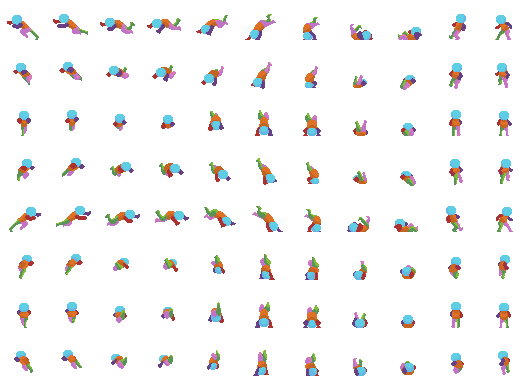
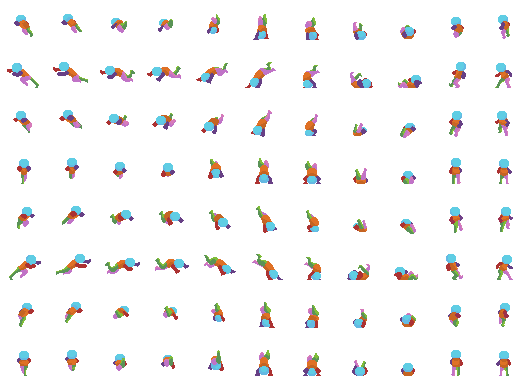
Actual dodging in response to input

diff --git a/crates/game/runtime/src/characters/dodge.rs b/crates/game/runtime/src/characters/dodge.rs
@@ -1,8 +1,13 @@
+use crate::characters::state::TrySetStateEvent;
+use assets::action_states::Dodging;
 use bevy::prelude::*;
 use common::Facing;
+use std::time::Duration;
+use physics::{ApplyImpulse, Impulse};
 
 pub(super) fn plugin(app: &mut App) {
     app.add_observer(on_try_dodge);
+    app.add_observer(on_valid_dodge);
 }
 
 #[derive(EntityEvent, Debug, Clone, derive_new::new)]
@@ -11,9 +16,30 @@ pub struct TryDodgeEvent {
     facing: Facing,
 }
 
-fn on_try_dodge(
-    event: On<TryDodgeEvent>,
-    mut commands: Commands,
-) {
-    info!("Try Dodge!");
+const DODGE_DURATION: Duration = Duration::from_millis(11 * 35);
+
+fn on_try_dodge(event: On<TryDodgeEvent>, mut commands: Commands) {
+    let facing = event.facing;
+
+    commands.trigger(
+        TrySetStateEvent::new(event.entity, Box::new(Dodging::new(DODGE_DURATION))).with_callback(
+            move |entity, mut commands: Commands, result: Result<_, _>| {
+                if result.is_ok() {
+                    commands.trigger(ValidDodgeEvent::new(entity, facing));
+                }
+            },
+        ),
+    );
+}
+
+#[derive(EntityEvent, Debug, Clone, derive_new::new)]
+struct ValidDodgeEvent {
+    entity: Entity,
+    facing: Facing,
+}
+
+const DODGE_IMPULSE: f32 = 20.0;
+
+fn on_valid_dodge(event: On<ValidDodgeEvent>, mut commands: Commands) {
+    commands.trigger(ApplyImpulse::new(event.entity, Impulse(Vec3::from(event.facing) * DODGE_IMPULSE)))
 }

diff --git a/crates/datagen/src/characters/player.rs b/crates/datagen/src/characters/player.rs
@@ -60,11 +60,11 @@ pub(super) fn generate_player() -> Result<(), WriteError> {
 
     let dodging = AnimationData::new(
         "player/rolling",
-        64,
-        64,
+        48,
+        48,
         FrameDataCodec::FixedInterval {
             num_frames: 11,
-            interval: 50,
+            interval: 35,
         },
     )
         .with_image("player/rolling");
